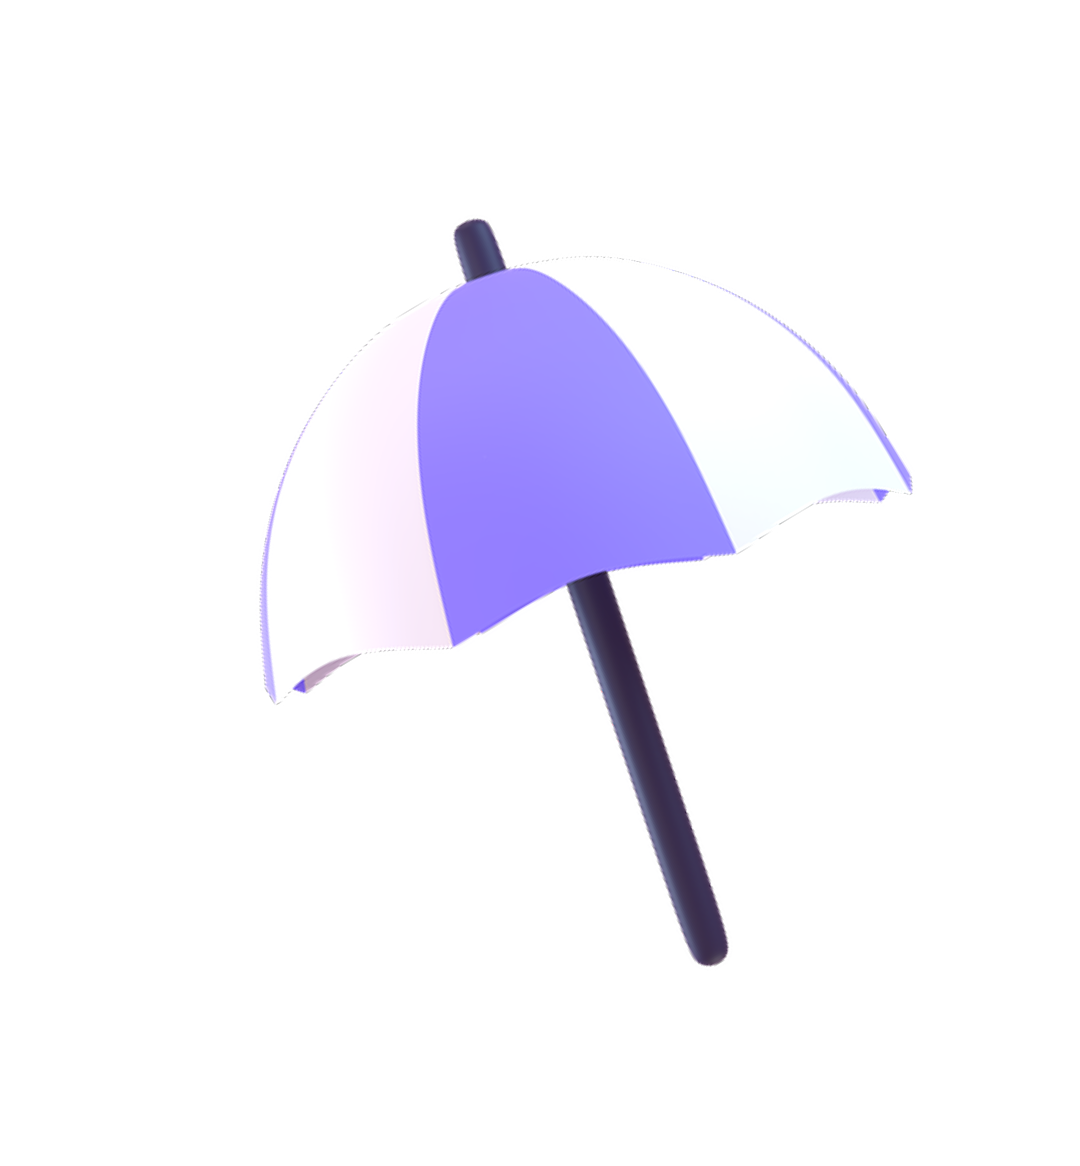
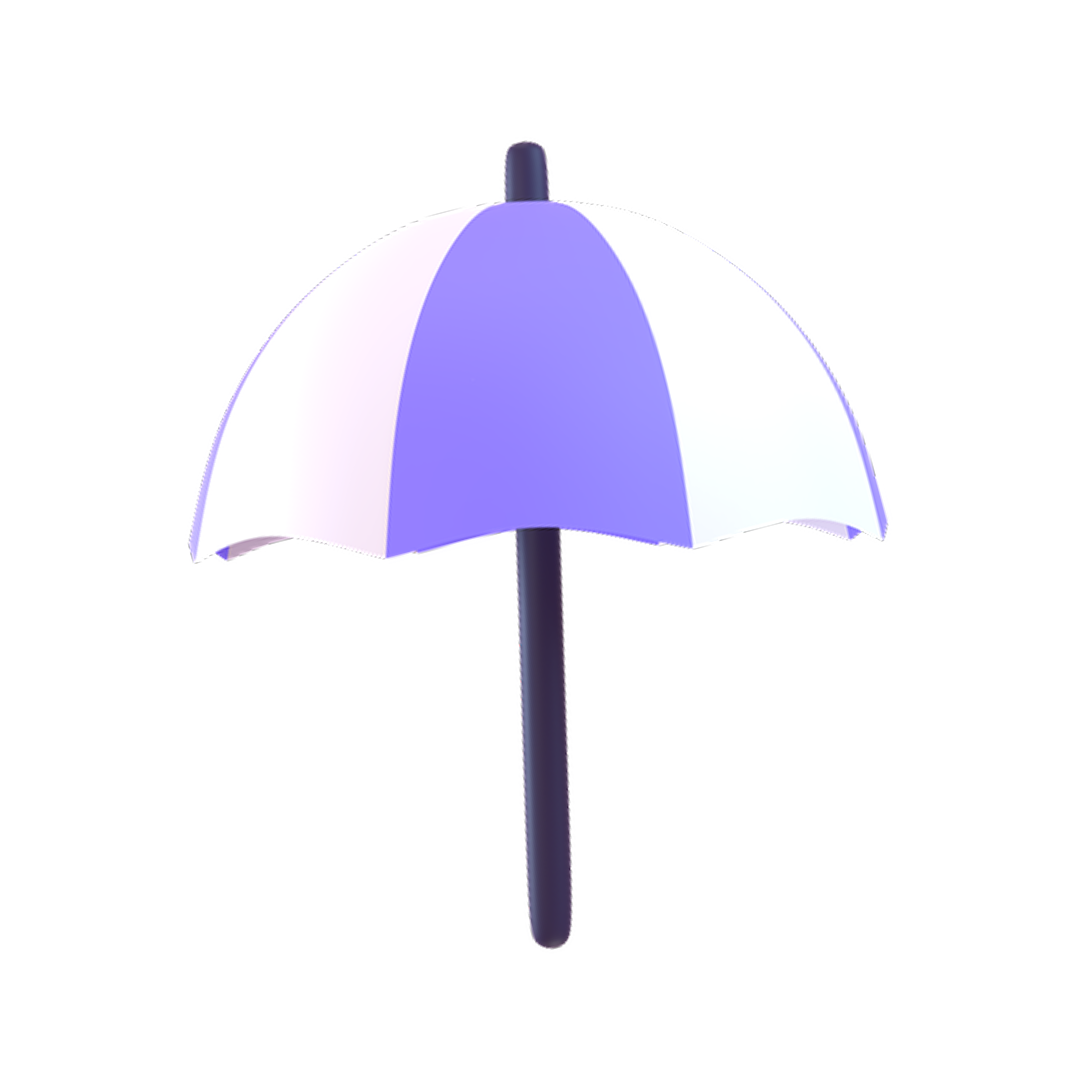
changes
changes

diff --git a/js/script.js b/js/script.js
@@ -7,7 +7,6 @@ const cities = {
 };
 
 const loader = document.querySelector("#loader");
-
 const uvCard = document.querySelector("#uv-card");
 const uvNumber = document.querySelector("#uv-number");
 const risk = document.querySelector("#risk");
@@ -21,10 +20,11 @@ const umbrellaIcon = document.querySelector("#umbrella-icon");
 
 const cityInput = document.querySelector("#city-input");
 const searchBtn = document.querySelector("#search-btn");
+const locationTimeP = document.querySelector("#location-time"); // для города
 
+// --- загрузка UV ---
 async function loadUV(lat, lon) {
   const url = `https://currentuvindex.com/api/v1/uvi?latitude=${lat}&longitude=${lon}`;
-
   try {
     const response = await fetch(url);
     const data = await response.json();
@@ -35,6 +35,7 @@ async function loadUV(lat, lon) {
   }
 }
 
+// --- поиск по имени города через Open-Meteo ---
 async function searchCity(cityName) {
   if (!cityName.trim()) {
     alert("Please enter a city");
@@ -65,6 +66,7 @@ async function searchCity(cityName) {
   }
 }
 
+// --- скрыть все иконки ---
 function hideIcons() {
   sunIcon.style.display = "none";
   sunglassesIcon.style.display = "none";
@@ -72,11 +74,12 @@ function hideIcons() {
   umbrellaIcon.style.display = "none";
 }
 
+// --- показать UV ---
 async function showUV(city) {
-    loader.style.display = 'flex';
-    const uvData = await loadUV(city.lat, city.lon);
-    await new Promise(resolve => setTimeout(resolve, 500));
-    loader.style.display = 'none';
+  loader.style.display = "flex";
+  const uvData = await loadUV(city.lat, city.lon);
+  await new Promise(resolve => setTimeout(resolve, 500));
+  loader.style.display = "none";
 
   if (!uvData) {
     uvNumber.textContent = "Error";
@@ -84,15 +87,17 @@ async function showUV(city) {
     advice.textContent = "Please try again";
     warning.textContent = "Could not load UV data.";
     hideIcons();
+    locationTimeP.textContent = city.name; // показываем только город
     return;
   }
 
   const uv = uvData.now.uvi;
 
   uvNumber.textContent = `UV ${uv}`;
-
   uvCard.classList.remove("low", "medium", "high");
   hideIcons();
+
+  locationTimeP.textContent = city.name; // показываем только город
 
   if (uv < 3) {
     uvCard.classList.add("low");
@@ -116,36 +121,39 @@ async function showUV(city) {
   }
 }
 
+// --- анимация солнца ---
 let angle = 0;
 let time = 0;
-
 function animateSun() {
   angle += 0.8;
   time += 0.08;
-
   const scale = 1 + Math.sin(time) * 0.18;
-
   sunIcon.style.transform = `rotate(${angle}deg) scale(${scale})`;
-
   requestAnimationFrame(animateSun);
 }
-
 animateSun();
 
+// --- анимация зонтика ---
+let umbrellaTime = 0;
+function animateUmbrella() {
+  umbrellaTime += 0.04;
+  const rotation = Math.sin(umbrellaTime) * 8;
+  umbrellaIcon.style.transform = `rotate(${rotation}deg)`;
+  requestAnimationFrame(animateUmbrella);
+}
+animateUmbrella();
+
+// --- слушатели кнопок ---
 document.querySelector("#bern").addEventListener("click", () => showUV(cities.bern));
 document.querySelector("#tokyo").addEventListener("click", () => showUV(cities.tokyo));
 document.querySelector("#madrid").addEventListener("click", () => showUV(cities.madrid));
 document.querySelector("#newyork").addEventListener("click", () => showUV(cities.newyork));
 document.querySelector("#dubai").addEventListener("click", () => showUV(cities.dubai));
 
-searchBtn.addEventListener("click", () => {
-  searchCity(cityInput.value);
-});
-
+searchBtn.addEventListener("click", () => searchCity(cityInput.value));
 cityInput.addEventListener("keydown", (event) => {
-  if (event.key === "Enter") {
-    searchCity(cityInput.value);
-  }
+  if (event.key === "Enter") searchCity(cityInput.value);
 });
 
+// --- показать по умолчанию ---
 showUV(cities.bern);

diff --git a/css/style.css b/css/style.css
@@ -30,7 +30,7 @@ header h1 {
 
 button {
     border: none;
-    background: white;
+    background: #bdf0dd;
     padding: 12px 28px;
     border-radius: 40px;
     font-family: 'Inter', sans-serif;
@@ -261,8 +261,9 @@ button {
 #umbrella-icon {
     width: 165px;
     height: auto;
-    top: 15px;
-    left: 0;
+    top: 30px;
+    left: 20px;
+    transform-origin: center bottom;
 }
 
 .search-bar {
@@ -272,9 +273,6 @@ button {
     gap: 12px;
     margin-bottom: 35px;
     flex-wrap: nowrap;
-    
-
-    
 }
 
 #city-input {
@@ -288,6 +286,7 @@ button {
 
     font-size: 16px;
     font-family: Inter, sans-serif;
+    
 }
 
 #search-btn {
@@ -330,4 +329,11 @@ button {
     width: 150px;
     height: auto;
     transform: translateY(15px);
+}
+
+#location-time {
+    margin-top: 8px;
+    font-size: 14px;
+    font-weight: 500;
+    color: #1d1d1d; /* можно задать цвет текста, чтобы совпадал с остальными элементами */
 }

diff --git a/index.html b/index.html
@@ -61,6 +61,7 @@
           <option value="Melbourne"></option>
           <option value="Cape Town"></option>
           <option value="Rio de Janeiro"></option>
+          <option value="Chur"></option>
         </datalist>
 
         <button id="search-btn">Search</button>
@@ -107,6 +108,7 @@
           <p id="risk">Low risk</p>
           <div id="uv-number">UV 1</div>
           <p id="advice">No protection required</p>
+          <p id="location-time">City – 00:00</p>
         </div>
 
         <div class="icon">

diff --git a/README.md b/README.md
@@ -1,3 +1,5 @@
 # VORLAGE_IntMed_II
 
-## Hallo
+## Hallo HH:MM UTC нужно знать часовой пояс по єтому еще один api
+
+##
